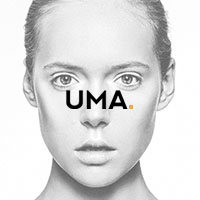
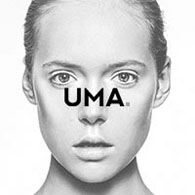
Added amie.kz

diff --git a/public/css/style.css b/public/css/style.css
@@ -144,7 +144,7 @@
 	border-radius: 99%;
 	text-align: center;
 	font-family: "Nexa", "Gilroy L";
-	height: 200px;
+	height: 195px;
 	width: 195px;
 	padding-top: 100px;
 }
@@ -173,6 +173,10 @@
 
 #uma {
 	background: url(../img/uma.jpg) center;
+}
+
+#amie {
+	background: url(../img/amie.jpg) center;
 }
 
  @font-face {

diff --git a/resources/views/index.blade.php b/resources/views/index.blade.php
@@ -120,9 +120,10 @@
                 <div class="col-lg-2 circle col-md-2 col-sm-3" id="uma">
                 </div>
                 </a>
-                <div class="col-lg-2 col-lg-offset-3 col-md-2 col-md-offset-3 circle">
-                    <p>UmaGraphics</p>
+                <a href="http://amie.kz">
+                <div class="col-lg-2 col-lg-offset-3 col-md-2 col-md-offset-3 circle" id="amie">
                 </div>
+                </a>
                 <div class="col-lg-2 col-lg-offset-3 col-md-2 col-md-offset-3 circle">
                     <p>UmaGraphics</p>
                 </div>
